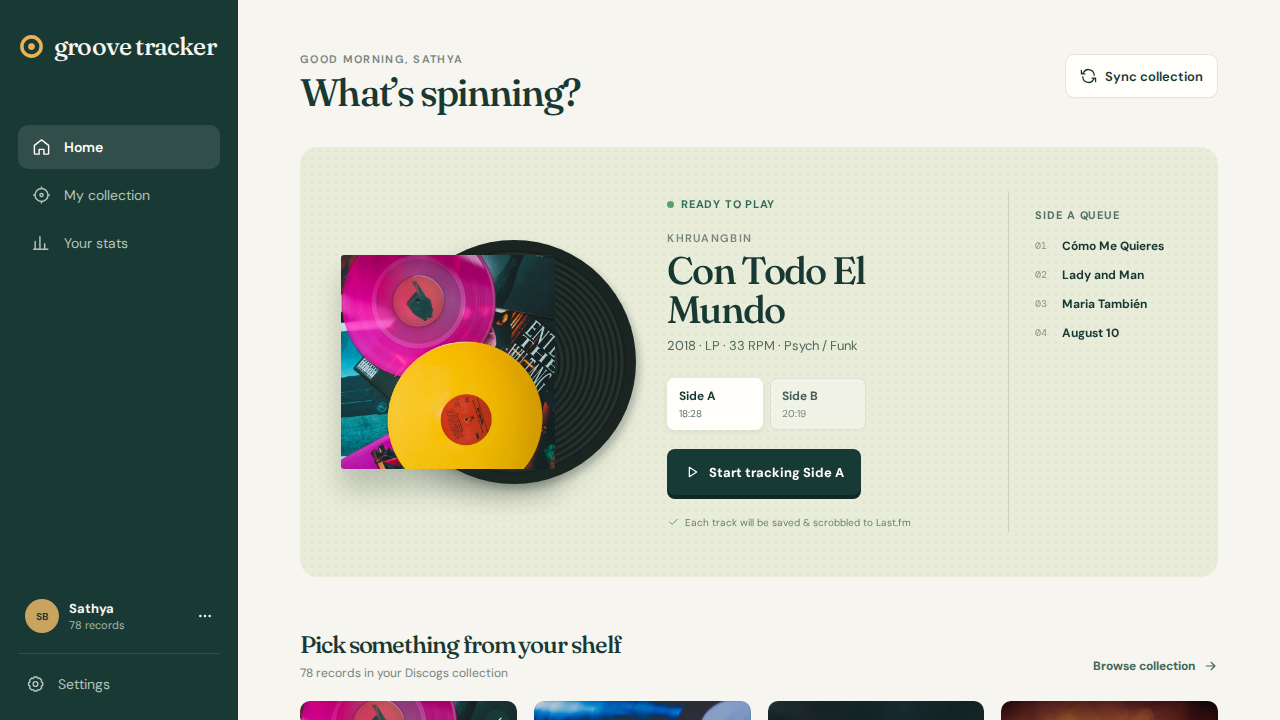
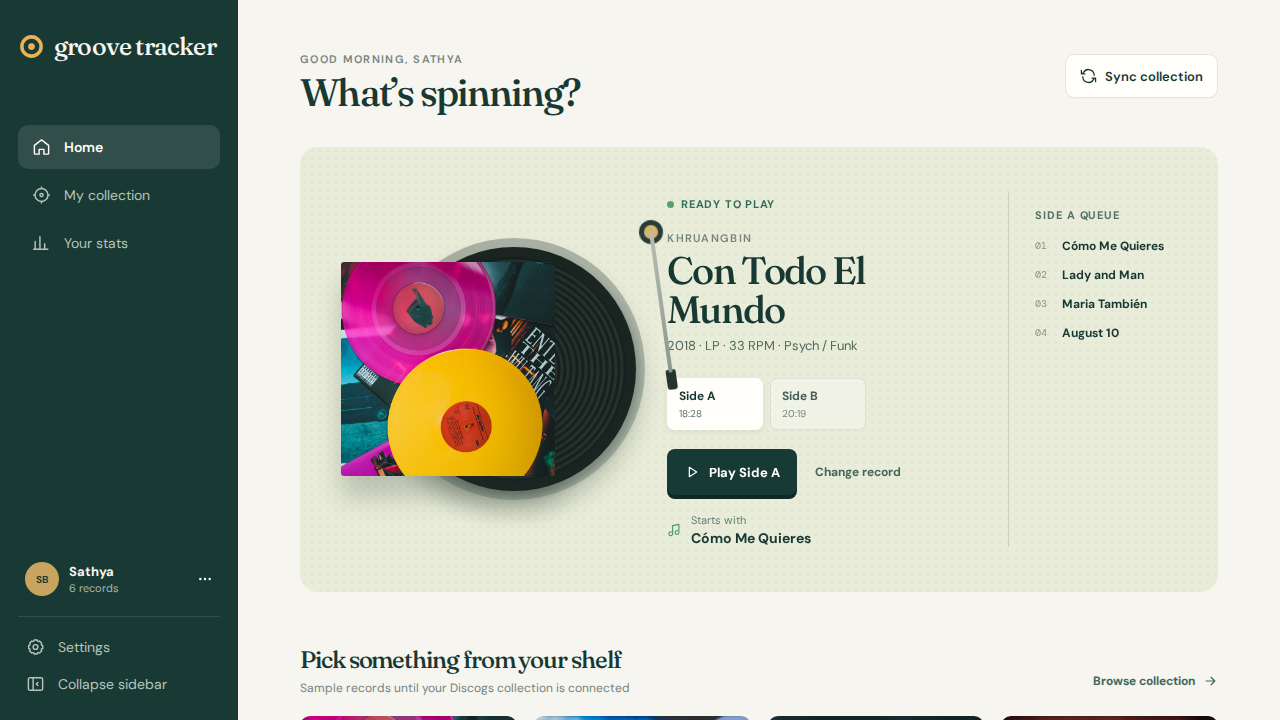
Group listening history by record and fix nav and queue layout

diff --git a/src/styles.css b/src/styles.css
@@ -19,17 +19,20 @@ body { margin: 0; min-width: 320px; background: var(--paper); }
 button, input, select { font: inherit; }
 button { cursor: pointer; border: 0; color: inherit; }
 button:focus-visible, input:focus-visible, select:focus-visible { outline: 3px solid #e3b467; outline-offset: 2px; }
-.shell { min-height: 100vh; display: grid; grid-template-columns: 238px minmax(0, 1fr); }
+.shell { min-height: 100vh; display: grid; grid-template-columns: 238px minmax(0, 1fr); transition: grid-template-columns .2s ease; }
 .sidebar { background: #183934; color: #f8f6ef; min-height: 100vh; padding: 31px 18px 21px; display: flex; flex-direction: column; position: sticky; top: 0; height: 100vh; }
-.brand { display: inline-flex; align-items: center; gap: 9px; font-family: "Fraunces", serif; font-size: 25px; letter-spacing: -.8px; }
+.brand { display: inline-flex; align-items: center; gap: 9px; font-family: "Fraunces", serif; font-size: 25px; letter-spacing: -.8px; background: transparent; color: inherit; padding: 0; border-radius: 8px; white-space: nowrap; }
 .brand .icon { height: 27px; width: 27px; color: #eab158; }
 .icon { display: inline-flex; width: 20px; height: 20px; flex: 0 0 auto; }
 .icon svg { display: block; width: 100%; height: 100%; fill: none; stroke: currentColor; stroke-width: 1.8; stroke-linecap: round; stroke-linejoin: round; }
 .icon-logo svg { fill: currentColor; stroke: none; }
+.settings-link.sidebar-toggle { border-top: 0; padding-top: 12px; }
+.sidebar-toggle:hover { color: #fffdf5; }
+.sidebar-toggle .icon { transition: transform .2s ease; }
 .nav { display: grid; gap: 4px; margin-top: 64px; }
 .nav-item, .settings-link { width: 100%; background: transparent; color: #b6c4bb; padding: 12px 14px; display: flex; align-items: center; gap: 13px; text-align: left; border-radius: 10px; font-size: 14px; }
 .nav-item .icon, .settings-link .icon { width: 19px; }
-.nav-item.active { color: #fffdf5; background: rgba(255,255,255,.11); font-weight: 600; }
+.nav-item.active, .settings-link.active { color: #fffdf5; background: rgba(255,255,255,.11); font-weight: 600; }
 .sidebar-footer { margin-top: auto; }
 .mini-profile { width: 100%; display: flex; align-items: center; gap: 10px; padding: 11px 7px 20px; color: #f8f6ef; background: transparent; text-align: left; }
 .avatar { display: grid; place-items: center; width: 34px; height: 34px; background: #c9a45f; color: #183934; border-radius: 50%; font-size: 10px; font-weight: 700; letter-spacing: .4px; }
@@ -244,14 +247,33 @@ select, .sort-button { appearance: none; background: #fffefa; border: 1px solid 
 .queue-panel li.is-playing strong { color: var(--ink); }
 .queue-panel li.is-playing > span { color: #4d9670; }
 .queue-panel li.is-next small { color: #b07a2f; }
+/* Collapsed sidebar: an icon rail on tablet and desktop. */
+.shell.sidebar-collapsed { grid-template-columns: 76px minmax(0, 1fr); }
+.sidebar-collapsed .sidebar { padding-left: 12px; padding-right: 12px; align-items: center; }
+.sidebar-collapsed .brand > span:not(.icon), .sidebar-collapsed .nav-item > span:not(.icon), .sidebar-collapsed .settings-link > span:not(.icon), .sidebar-collapsed .mini-profile > span:nth-child(2), .sidebar-collapsed .mini-profile > .icon { display: none; }
+.sidebar-collapsed .sidebar-toggle .icon { transform: scaleX(-1); }
+.sidebar-collapsed .nav { margin-top: 40px; width: 100%; }
+.sidebar-collapsed .nav-item, .sidebar-collapsed .settings-link { justify-content: center; padding-left: 0; padding-right: 0; }
+.sidebar-collapsed .sidebar-footer { width: 100%; }
+.sidebar-collapsed .mini-profile { justify-content: center; padding-left: 0; padding-right: 0; }
+
+/* Listening history: one row per record, its tracks beneath. */
+.history-group { border-bottom: 1px solid var(--line); padding-bottom: 12px; }
+.history-group:last-child { border-bottom: 0; padding-bottom: 0; }
+.history-group .history-row { width: 100%; text-align: left; background: transparent; border-bottom: 0; padding-bottom: 8px; }
+.history-tracks { list-style: none; margin: 0 0 0 51px; padding: 0; display: grid; gap: 6px; }
+.history-tracks li { display: grid; grid-template-columns: 28px minmax(0, 1fr); gap: 6px; align-items: baseline; }
+.history-tracks span { color: #85948d; font: 10px "DM Mono", monospace; }
+.history-tracks strong { font-size: 12px; font-weight: 500; white-space: nowrap; overflow: hidden; text-overflow: ellipsis; }
+
 .toast { position: fixed; z-index: 10; left: 50%; bottom: 28px; transform: translateX(-50%); display: flex; align-items: center; gap: 8px; color: white; background: #173a35; padding: 12px 16px; border-radius: 9px; box-shadow: 0 12px 30px rgba(17,43,37,.24); font-size: 12px; font-weight: 600; animation: toast-in .22s ease-out; }.toast .icon { width: 16px; color: #91d29f; }
 @keyframes toast-in { from { opacity: 0; transform: translate(-50%, 12px); } }
 
 @media (max-width: 1120px) {
-  .page { padding: 45px 38px 55px; }.now-playing { grid-template-columns: 250px 1fr; }.queue-panel { display: none; }.lower-grid { grid-template-columns: 1fr 255px; }.collection-grid { grid-template-columns: repeat(2, 1fr); }.deck-empty .now-info { grid-column: 2; }
+  .page { padding: 45px 38px 55px; }.now-playing { grid-template-columns: 250px 1fr; row-gap: 28px; }.queue-panel { grid-column: 1 / -1; align-self: auto; padding: 22px 0 0; border-left: 0; border-top: 1px solid rgba(36,75,62,.15); }.queue-panel ol { grid-template-columns: repeat(2, minmax(0, 1fr)); column-gap: 28px; }.lower-grid { grid-template-columns: 1fr 255px; }.collection-grid { grid-template-columns: repeat(2, 1fr); }.deck-empty .now-info { grid-column: 2; }
 }
 @media (max-width: 790px) {
-  .shell { display: block; padding-bottom: 65px; }.sidebar { display: none; }.mobile-header { height: 66px; padding: 0 20px; display: flex; align-items: center; justify-content: space-between; border-bottom: 1px solid var(--line); background: rgba(246,245,239,.92); position: sticky; top: 0; z-index: 6; backdrop-filter: blur(12px); }.mobile-header .brand { font-size: 23px; }.mobile-header .brand .icon { width: 24px; }.avatar-button { border: 0; }.page { padding: 35px 20px 45px; }.mobile-nav { display: grid; grid-template-columns: repeat(4, 1fr); position: fixed; z-index: 8; bottom: 0; left: 0; right: 0; padding: 7px 8px calc(7px + env(safe-area-inset-bottom)); background: rgba(255,254,250,.94); border-top: 1px solid var(--line); backdrop-filter: blur(12px); }.mobile-nav-item { display: grid; justify-items: center; gap: 3px; background: transparent; padding: 5px; color: #87928d; font-size: 9px; }.mobile-nav-item .icon { width: 20px; }.mobile-nav-item.active { color: #286353; font-weight: 700; }.page-head { margin-bottom: 27px; }.sync-button > span:not(.icon) { display: none; }.sync-button { padding: 10px; }.now-playing { min-height: 0; display: block; padding: 27px 24px 30px; }.playing-image-wrap { height: 216px; max-width: 276px; margin: 0 auto 24px; transform: scale(.82); transform-origin: top center; }.now-info { text-align: center; }.now-info .eyebrow { margin-top: 5px; }.side-selector { justify-content: center; }.current-track { justify-content: center; }.current-track > span:not(.icon) { text-align: center; justify-items: center; }.shelf-grid { grid-template-columns: repeat(2, 1fr); gap: 15px; }.album-art { aspect-ratio: 1 / .82; }.lower-grid { grid-template-columns: 1fr; gap: 30px; margin-top: 41px; }.weekly-card { min-height: 155px; }.collection-tools { grid-template-columns: 1fr 135px; }.search-box { grid-column: 1 / -1; }.sort-button { display: none; }.collection-grid { margin-left: -20px; margin-right: -20px; }.collection-record { padding: 13px; }.record-details h2 { font-size: 17px; }.analytics-grid, .stat-grid { grid-template-columns: 1fr; }.bar-chart { gap: 5px; }.history-row time { display: none; }.settings-card { padding: 16px; }.frequency-card { align-items: end; }.toast { bottom: 78px; width: max-content; max-width: calc(100vw - 36px); text-align: center; }.deck-empty .playing-image-wrap { margin-bottom: 0; }.track-now, .coming-next { margin-left: auto; margin-right: auto; }.track-now > strong { font-size: 20px; }.deck-actions { justify-content: center; }.search-results { text-align: left; }
+  .shell, .shell.sidebar-collapsed { display: block; padding-bottom: 65px; }.sidebar { display: none; }.mobile-header { height: 66px; padding: 0 20px; display: flex; align-items: center; justify-content: space-between; border-bottom: 1px solid var(--line); background: rgba(246,245,239,.92); position: sticky; top: 0; z-index: 6; backdrop-filter: blur(12px); }.mobile-header .brand { font-size: 23px; }.mobile-header .brand .icon { width: 24px; }.avatar-button { border: 0; }.page { padding: 35px 20px 45px; }.mobile-nav { display: grid; grid-template-columns: repeat(4, 1fr); position: fixed; z-index: 8; bottom: 0; left: 0; right: 0; padding: 7px 8px calc(7px + env(safe-area-inset-bottom)); background: rgba(255,254,250,.94); border-top: 1px solid var(--line); backdrop-filter: blur(12px); }.mobile-nav-item { display: grid; justify-items: center; gap: 3px; background: transparent; padding: 5px; color: #87928d; font-size: 9px; }.mobile-nav-item .icon { width: 20px; }.mobile-nav-item.active { color: #286353; font-weight: 700; }.page-head { margin-bottom: 27px; }.sync-button > span:not(.icon) { display: none; }.sync-button { padding: 10px; }.now-playing { min-height: 0; display: block; padding: 27px 24px 30px; }.playing-image-wrap { height: 216px; max-width: 276px; margin: 0 auto 24px; transform: scale(.82); transform-origin: top center; }.now-info { text-align: center; }.now-info .eyebrow { margin-top: 5px; }.side-selector { justify-content: center; }.current-track { justify-content: center; }.current-track > span:not(.icon) { text-align: center; justify-items: center; }.shelf-grid { grid-template-columns: repeat(2, 1fr); gap: 15px; }.album-art { aspect-ratio: 1 / .82; }.lower-grid { grid-template-columns: 1fr; gap: 30px; margin-top: 41px; }.weekly-card { min-height: 155px; }.collection-tools { grid-template-columns: 1fr 135px; }.search-box { grid-column: 1 / -1; }.sort-button { display: none; }.collection-grid { margin-left: -20px; margin-right: -20px; }.collection-record { padding: 13px; }.record-details h2 { font-size: 17px; }.analytics-grid, .stat-grid { grid-template-columns: 1fr; }.bar-chart { gap: 5px; }.history-row time { display: none; }.settings-card { padding: 16px; }.frequency-card { align-items: end; }.toast { bottom: 78px; width: max-content; max-width: calc(100vw - 36px); text-align: center; }.deck-empty .playing-image-wrap { margin-bottom: 0; }.track-now, .coming-next { margin-left: auto; margin-right: auto; }.track-now > strong { font-size: 20px; }.deck-actions { justify-content: center; }.search-results { text-align: left; }.queue-panel { margin-top: 26px; }.queue-panel ol { grid-template-columns: 1fr; }.history-tracks { margin-left: 0; }
 }
 @media (max-width: 410px) {
   .page { padding-left: 16px; padding-right: 16px; }.page-head h1 { font-size: 35px; }.collection-grid { margin-left: -16px; margin-right: -16px; }.now-playing { padding-left: 16px; padding-right: 16px; }.now-info h2 { font-size: 31px; }.section-heading h2 { font-size: 22px; }.recent-row em { display: none; }.recent-row { grid-template-columns: 40px 1fr 17px; }.collection-tools { grid-template-columns: 1fr 120px; }

diff --git a/src/main.js b/src/main.js
@@ -100,6 +100,7 @@ const icons = {
   arrow: `<svg viewBox="0 0 24 24"><path d="M5 12h14m-6-6 6 6-6 6"/></svg>`,
   check: `<svg viewBox="0 0 24 24"><path d="m5 12 4.5 4.5L19 7"/></svg>`,
   close: `<svg viewBox="0 0 24 24"><path d="m6 6 12 12M18 6 6 18"/></svg>`,
+  sidebar: `<svg viewBox="0 0 24 24"><rect x="3" y="4" width="18" height="16" rx="2"/><path d="M9 4v16m6-10-2 2 2 2"/></svg>`,
   play: `<svg viewBox="0 0 24 24"><path d="m8 5 11 7-11 7V5Z"/></svg>`,
   note: `<svg viewBox="0 0 24 24"><path d="M9 18V5l10-2v13M9 18a3 3 0 1 1-2-2.83M19 16a3 3 0 1 1-2-2.83"/></svg>`,
 };
@@ -123,6 +124,7 @@ const state = {
   syncFrequency: "Weekly",
   toast: "",
   history: JSON.parse(localStorage.getItem("groove-history") || "[]"),
+  sidebarCollapsed: localStorage.getItem("groove-sidebar-collapsed") === "true",
   apiAvailable: false,
   stats: null,
   discogs: { connected: false, username: null },
@@ -212,7 +214,8 @@ function listeningView() {
         cover: item.coverUrl,
         side: `Side ${item.side}`,
         length: formatSideLength(item.durationSeconds),
-        when: formatWhen(item.startedAt)
+        when: formatWhen(item.startedAt),
+        tracks: (item.tracks || []).map((track, index) => ({ title: track.title, position: track.position || `${item.side}${index + 1}` }))
       })),
       collectionCount: stats.collectionCount
     };
@@ -251,10 +254,40 @@ function listeningView() {
       cover: item.album.cover,
       side: item.album.sides[item.side].name,
       length: item.album.sides[item.side].length,
-      when: item.at ? formatWhen(item.at) : item.startedAt
+      when: item.at ? formatWhen(item.at) : item.startedAt,
+      tracks: item.album.sides[item.side].tracks.map((title, index) => ({
+        title,
+        position: `${item.album.sides[item.side].name.replace("Side ", "")}${index + 1}`
+      }))
     })),
     collectionCount: albums.length
   };
+}
+
+// Listening history grouped by record: consecutive sides of the same record form one session.
+function historyGroups(history) {
+  const groups = [];
+  for (const item of history) {
+    const last = groups[groups.length - 1];
+    if (last && String(last.id) === String(item.id)) {
+      last.sides.unshift(item);
+      last.when = item.when;
+      continue;
+    }
+    groups.push({ id: item.id, title: item.title, artist: item.artist, cover: item.cover, when: item.when, sides: [item] });
+  }
+  return groups;
+}
+
+function historyMarkup(history) {
+  return historyGroups(history).map(group => {
+    const tracks = group.sides.flatMap(side => side.tracks);
+    const sideNames = group.sides.map(side => side.side).join(" · ");
+    return `<article class="history-group">
+      <button class="history-row" data-album="${escapeHtml(group.id)}"><span class="tiny-cover" style="--cover:url('${escapeHtml(group.cover)}')"></span><span><strong>${escapeHtml(group.artist)} — ${escapeHtml(group.title)}</strong><small>${escapeHtml(sideNames)} · ${tracks.length} ${tracks.length === 1 ? "track" : "tracks"} · Scrobbles queued</small></span><time>${escapeHtml(group.when)}</time></button>
+      ${tracks.length ? `<ol class="history-tracks">${tracks.map(track => `<li><span>${escapeHtml(track.position)}</span><strong>${escapeHtml(track.title)}</strong></li>`).join("")}</ol>` : ""}
+    </article>`;
+  }).join("");
 }
 
 async function loadStats() {
@@ -547,22 +580,23 @@ function albumCard(album) {
 }
 
 function layout(content) {
-  return `<main class="shell">
+  return `<main class="shell ${state.sidebarCollapsed ? "sidebar-collapsed" : ""}">
     <aside class="sidebar">
-      <div class="brand">${icon("logo")}<span>groove tracker</span></div>
+      <button class="brand" data-page="home" aria-label="Groove Tracker home">${icon("logo")}<span>groove tracker</span></button>
       <nav class="nav" aria-label="Main navigation">
         ${navItem("home", "Home", "home")}
         ${navItem("collection", "My collection", "collection")}
         ${navItem("stats", "Your stats", "chart")}
       </nav>
       <div class="sidebar-footer">
-        <button class="mini-profile" data-action="profile"><span class="avatar">SB</span><span><strong>Sathya</strong><small>${state.stats?.collectionCount ?? albums.length} records</small></span>${icon("more")}</button>
-        <button class="settings-link" data-page="settings">${icon("settings")}Settings</button>
+        <button class="mini-profile" data-action="profile" ${state.sidebarCollapsed ? 'title="Sathya"' : ""}><span class="avatar">SB</span><span><strong>Sathya</strong><small>${state.stats?.collectionCount ?? albums.length} records</small></span>${icon("more")}</button>
+        <button class="settings-link ${state.page === "settings" ? "active" : ""}" data-page="settings" ${state.sidebarCollapsed ? 'title="Settings"' : ""}>${icon("settings")}<span>Settings</span></button>
+        <button class="settings-link sidebar-toggle" data-action="toggle-sidebar" aria-expanded="${!state.sidebarCollapsed}" ${state.sidebarCollapsed ? 'title="Expand sidebar" aria-label="Expand sidebar"' : ""}>${icon("sidebar")}<span>Collapse sidebar</span></button>
       </div>
     </aside>
     <section class="main-panel">
       <header class="mobile-header">
-        <div class="brand">${icon("logo")}<span>groove tracker</span></div>
+        <button class="brand" data-page="home" aria-label="Groove Tracker home">${icon("logo")}<span>groove tracker</span></button>
         <button class="avatar avatar-button" data-action="profile">SB</button>
       </header>
       ${content}
@@ -578,7 +612,7 @@ function layout(content) {
 }
 
 function navItem(page, label, iconName) {
-  return `<button class="nav-item ${state.page === page ? "active" : ""}" data-page="${page}">${icon(iconName)}<span>${label}</span></button>`;
+  return `<button class="nav-item ${state.page === page ? "active" : ""}" data-page="${page}" ${state.sidebarCollapsed ? `title="${label}"` : ""}>${icon(iconName)}<span>${label}</span></button>`;
 }
 
 function mobileNavItem(page, label, iconName) {
@@ -770,8 +804,8 @@ function statsPage() {
       <article class="chart-card"><div class="card-title"><div><h2>Listening rhythm</h2><p>Time played each day, last 14 days</p></div><span class="chart-total">${formatHours(total14)}</span></div><div class="bar-chart">${view.days.map((day, i) => `<span class="${day.seconds && i === peak ? "highlight" : ""}" style="--value:${Math.max(Math.round(day.seconds / max * 100), 3)}%"></span>`).join("")}</div><div class="chart-axis">${axis.map(label => `<span>${label}</span>`).join("")}</div></article>
       <article class="top-albums"><div class="card-title"><div><h2>On repeat</h2><p>Your most-played records</p></div></div>${view.topAlbums.map((album, i) => `<button data-album="${album.id}"><span class="rank">0${i + 1}</span><span class="tiny-cover" style="--cover:url('${album.cover}')"></span><span><strong>${album.title}</strong><small>${album.artist}</small></span><em>${album.sides} ${album.sides === 1 ? "side" : "sides"}</em></button>`).join("") || `<div class="empty-state">Your most-played records will show up here.</div>`}</article>
     </section>
-    <section class="history-card"><div class="card-title"><div><h2>Listening history</h2><p>Every side, carefully saved.</p></div></div>
-      ${view.history.map(item => `<div class="history-row"><span class="tiny-cover" style="--cover:url('${item.cover}')"></span><span><strong>${item.artist} — ${item.title}</strong><small>${item.side} · ${item.length} · Scrobble queued</small></span><time>${item.when}</time></div>`).join("") || `<div class="empty-state">No listens yet.</div>`}</section>
+    <section class="history-card"><div class="card-title"><div><h2>Listening history</h2><p>Every track, grouped by record.</p></div></div>
+      ${historyMarkup(view.history) || `<div class="empty-state">No listens yet.</div>`}</section>
   </div>`);
 }
 
@@ -974,6 +1008,11 @@ function attachEvents() {
     }
     if (button.dataset.action === "sort") {
       state.toast = "Sorted by recently added";
+      render();
+    }
+    if (button.dataset.action === "toggle-sidebar") {
+      state.sidebarCollapsed = !state.sidebarCollapsed;
+      localStorage.setItem("groove-sidebar-collapsed", String(state.sidebarCollapsed));
       render();
     }
     if (button.dataset.action === "profile") {

diff --git a/server/index.js b/server/index.js
@@ -308,7 +308,17 @@ app.get("/api/stats", async () => {
     ),
     db.query(
       `SELECT l.id, r.id AS "collectionReleaseId", r.artist, r.title, r.cover_url AS "coverUrl",
-              l.side, l.started_at AS "startedAt", ${sideSeconds}::int AS "durationSeconds"
+              l.side, l.status, l.started_at AS "startedAt", ${sideSeconds}::int AS "durationSeconds",
+              -- Only the tracks that had started before the side ended or was stopped.
+              COALESCE((
+                SELECT json_agg(json_build_object(
+                  'title', t.track->>'title',
+                  'position', t.track->>'position',
+                  'startsAt', t.track->>'startsAt'
+                ) ORDER BY t.ord)
+                FROM jsonb_array_elements(l.tracks) WITH ORDINALITY AS t(track, ord)
+                WHERE (t.track->>'startsAt')::timestamptz <= COALESCE(l.completed_at, now())
+              ), '[]'::json) AS tracks
        FROM listens l JOIN collection_releases r ON r.id = l.collection_release_id
        WHERE l.user_id = $1 ORDER BY l.started_at DESC LIMIT 20`,
       [user.id]
